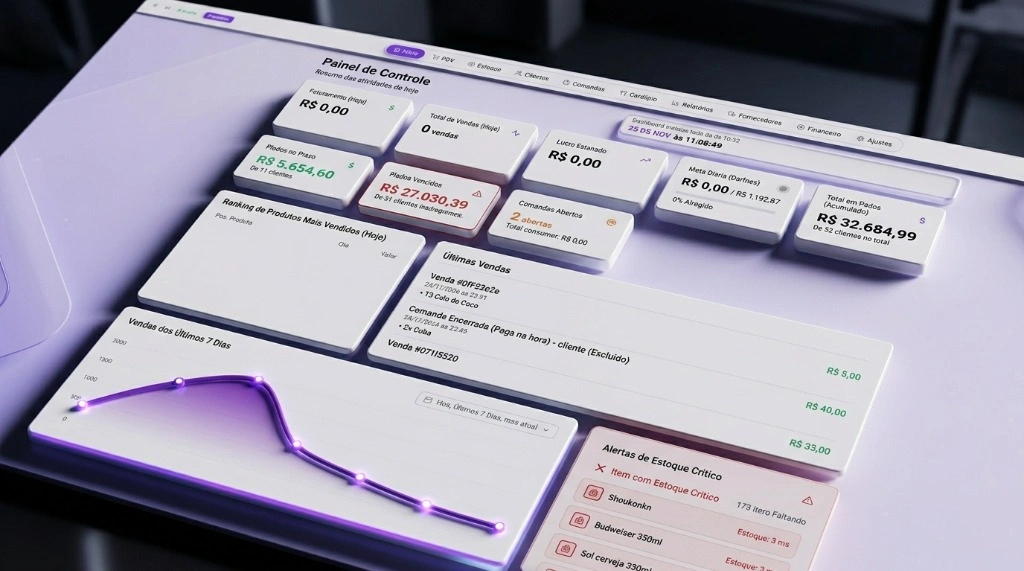
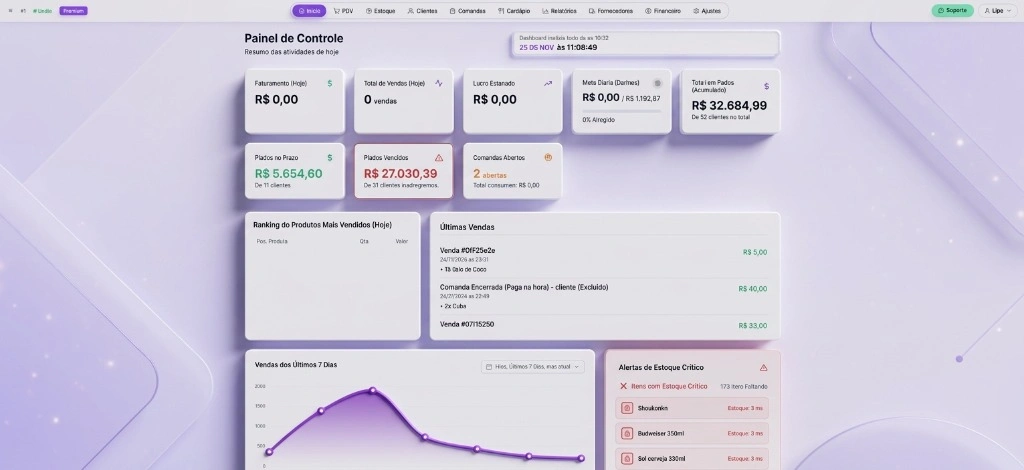
Remover moldura de monitor dos projetos e preencher card com nova imagem do Lead ERP

diff --git a/style.css b/style.css
@@ -6531,39 +6531,37 @@ body {
 
 .pmon {
     position: absolute;
-    left: 50%;
-    top: calc(var(--strip) + 16px);
-    width: min(76%, (var(--card-h) - var(--strip) - 40px) * 1.55);
-    transform: translateX(-50%);
+    left: 20px;
+    right: 20px;
+    top: calc(var(--strip) + 8px);
+    bottom: 0;
     pointer-events: none;
+    overflow: hidden;
+    border-radius: 20px 20px 0 0;
 }
 
 .pmon:after {
-    content: "";
-    z-index: -1;
-    background: linear-gradient(rgba(0, 0, 0, 0.7), rgba(0, 0, 0, 0.15) 48px, transparent 120px),
-                linear-gradient(90deg, #4a4a4d, #9c9ca0 10%, #b8b8bc 30%, #8e8e92 62%, #a9a9ad 85%, #4a4a4d);
-    width: 18%;
-    height: 100vh;
-    position: absolute;
-    top: 90%;
-    left: 50%;
-    transform: translateX(-50%);
-    box-shadow: 0 0 40px rgba(0, 0, 0, 0.45);
+    display: none !important;
 }
 
 .pmon-tela {
-    background: #050505;
-    border-radius: 12px;
-    padding: 10px 10px 0 10px;
-    box-shadow: 0 0 0 1.5px #a7a7aa, 0 30px 70px -20px rgba(0, 0, 0, 0.8);
+    width: 100%;
+    height: 100%;
+    background: #0a0b10;
+    border-radius: 20px 20px 0 0;
+    padding: 0;
+    box-shadow: 0 10px 40px rgba(0, 0, 0, 0.7);
+    border: 1px solid rgba(255, 255, 255, 0.08);
+    border-bottom: none;
     overflow: hidden;
 }
 
 .pmon-tela img {
     width: 100%;
-    height: auto;
-    border-radius: 6px 6px 0 0;
+    height: 100%;
+    object-fit: cover;
+    object-position: top center;
+    border-radius: 20px 20px 0 0;
     display: block;
 }
 
@@ -6601,8 +6599,15 @@ body {
         display: none;
     }
     .pmon {
-        width: 90%;
-        top: calc(var(--strip) + 12px);
+        left: 10px;
+        right: 10px;
+        top: calc(var(--strip) + 6px);
+        bottom: 0;
+        border-radius: 14px 14px 0 0;
+    }
+    .pmon-tela,
+    .pmon-tela img {
+        border-radius: 14px 14px 0 0;
     }
 }
 

diff --git a/index.html b/index.html
@@ -11,7 +11,7 @@
     <link rel="preconnect" href="https://fonts.gstatic.com" crossorigin>
     <link href="https://fonts.googleapis.com/css2?family=Geist:wght@300;400;500;600;700;800&family=Inter:wght@300;400;500;600;700&display=swap" rel="stylesheet">
     <!-- Custom CSS -->
-    <link rel="stylesheet" href="style.css?v=4700">
+    <link rel="stylesheet" href="style.css?v=4800">
     <!-- GSAP Animation Engine -->
     <script src="https://cdnjs.cloudflare.com/ajax/libs/gsap/3.12.5/gsap.min.js"></script>
     <style>
@@ -334,7 +334,7 @@
                     </div>
                     <div class="pmon">
                         <div class="pmon-tela">
-                            <img src="images/lead-erp.webp" alt="Painel de Controle Lead ERP" width="1024" height="571" loading="lazy">
+                            <img src="images/lead-erp.webp" alt="Painel de Controle Lead ERP" width="1024" height="470" loading="lazy">
                         </div>
                     </div>
                     <div class="pcard-shade" aria-hidden="true"></div>
@@ -959,6 +959,6 @@
     </div>
 
     <!-- Custom JS -->
-    <script src="app.js?v=3300"></script>
+    <script src="app.js?v=3400"></script>
 </body>
 </html>
